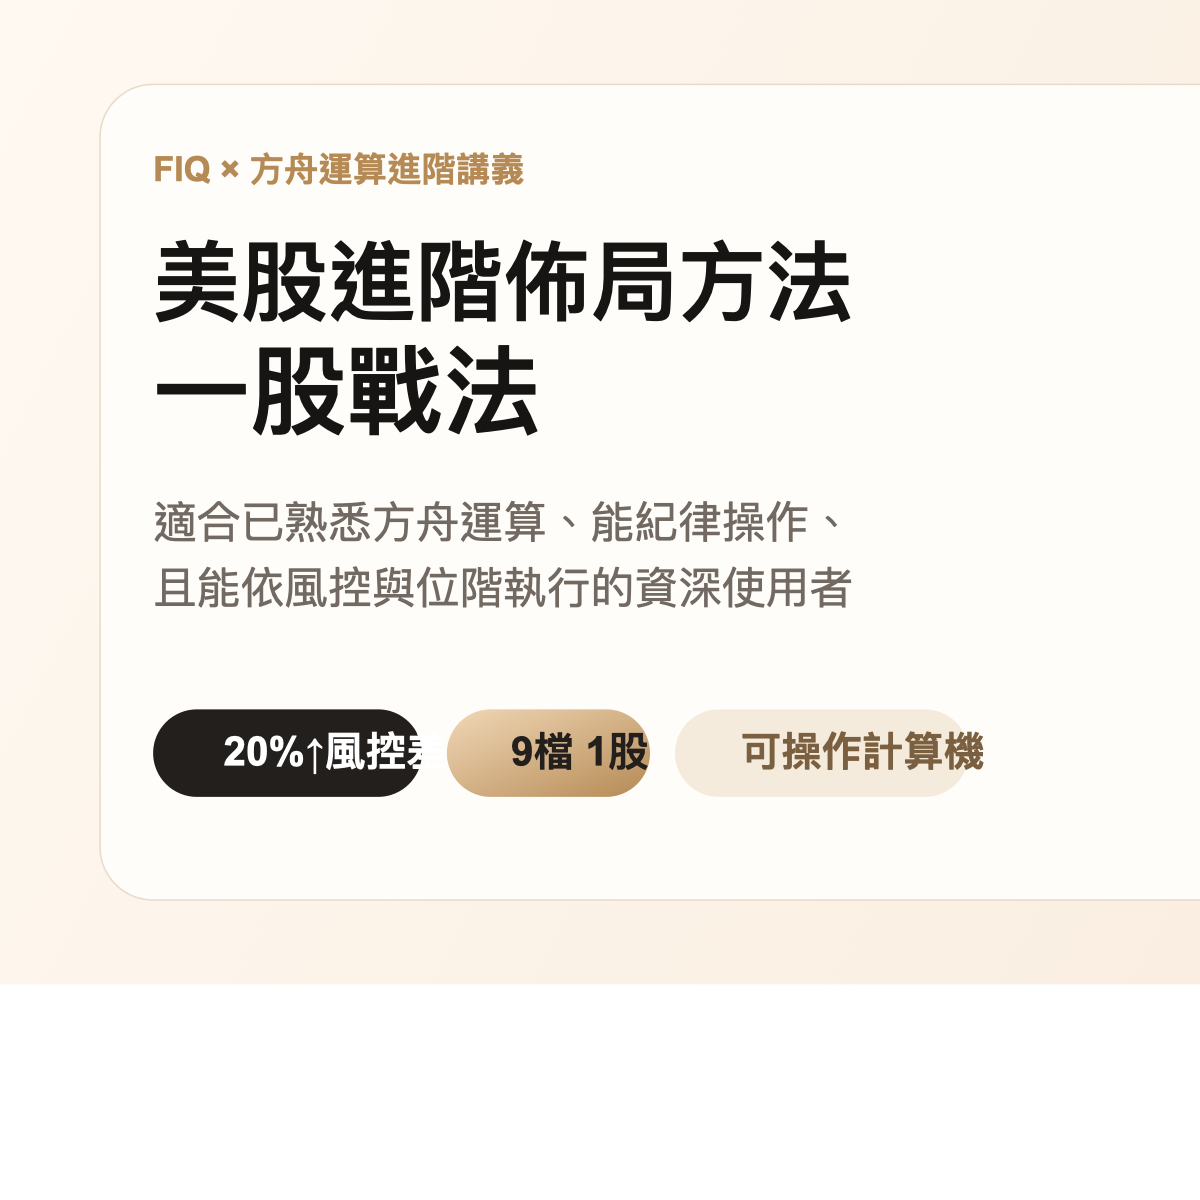
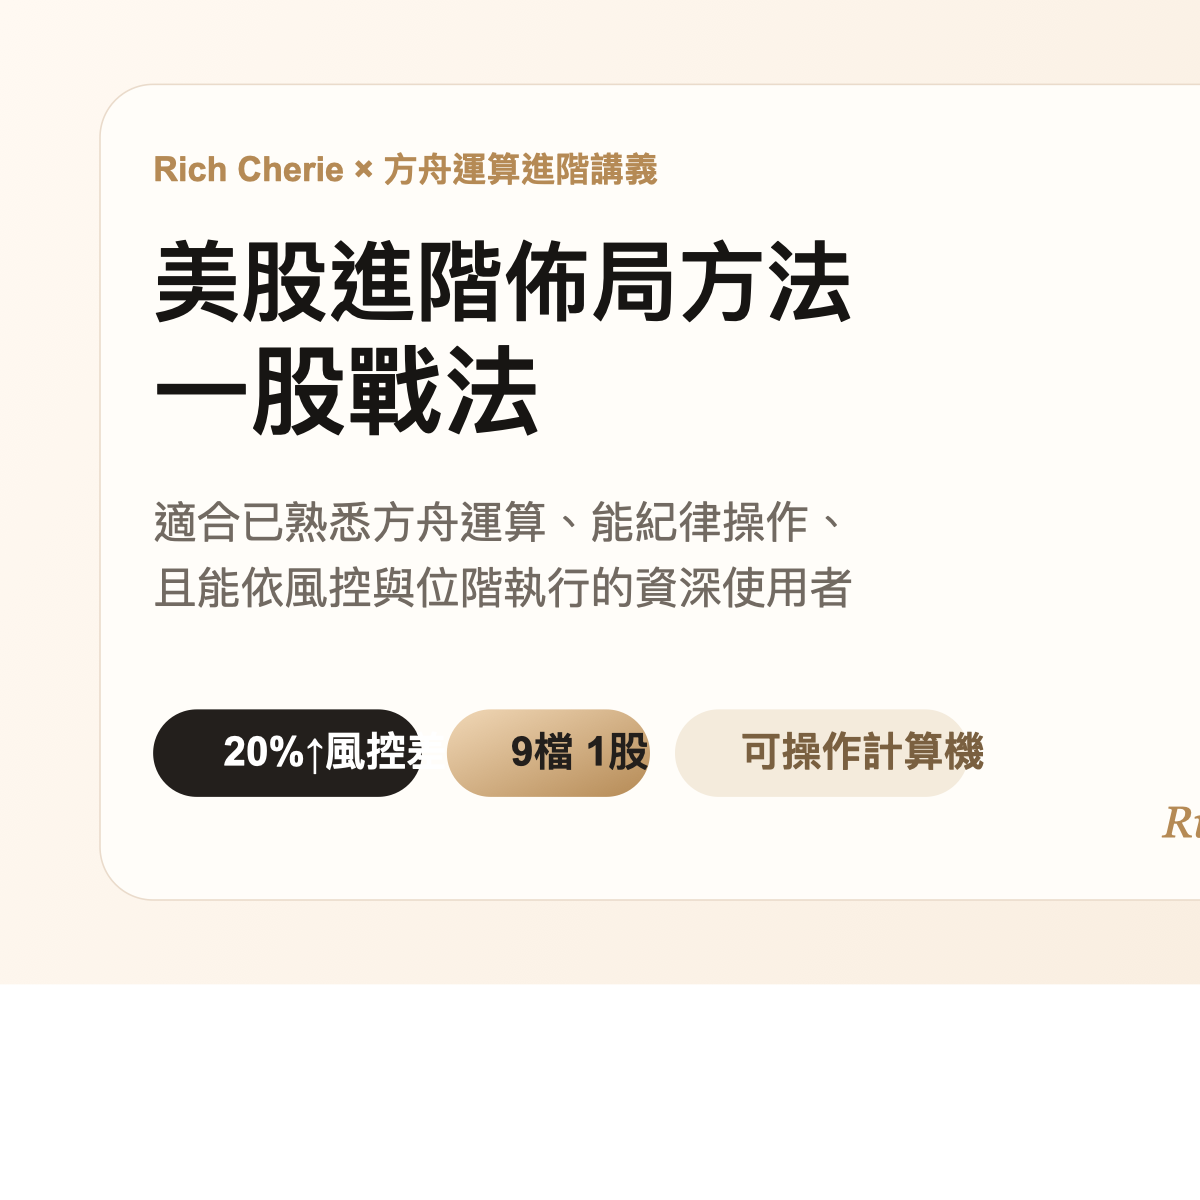
Replace FIQ label with Rich Cherie in page content

Changed region(s): [[0.1233, 0.1233, 0.555, 0.1542], [0.9558, 0.6783, 1.0, 0.7092]]

diff --git a/index.html b/index.html
@@ -3,9 +3,9 @@
 <head>
   <meta charset="UTF-8" />
   <meta name="viewport" content="width=device-width, initial-scale=1.0" />
-  <title>FIQ｜方舟運算美股進階佈局，一股戰法講義</title>
+  <title>Rich Cherie｜方舟運算美股進階佈局，一股戰法講義</title>
   <meta name="description" content="方舟運算擺渡人台中七期地主健身哥編寫的一股戰法講義，整理成可閱讀、可操作的公開網頁，含風控計算機。" />
-  <meta property="og:title" content="FIQ｜方舟運算美股進階佈局，一股戰法講義" />
+  <meta property="og:title" content="Rich Cherie｜方舟運算美股進階佈局，一股戰法講義" />
   <meta property="og:description" content="美股進階佈局方法，一股戰法，含先決條件、佈局 SOP、調節法與計算機。" />
   <meta property="og:type" content="website" />
   <meta property="og:image" content="./cover.png" />
@@ -110,7 +110,7 @@
           Instagram｜cherie.estilista
         </a>
       </div>
-      <span class="pill">✨ FIQ × 方舟運算進階講義</span>
+      <span class="pill">✨ Rich Cherie × 方舟運算進階講義</span>
       <h1>方舟運算／美股菁英班<br>「一股戰法」</h1>
       <p class="lead">📘 本頁將一股戰法拆解成先決條件、佈局 SOP、調節方法、情境判讀與可直接操作的計算機，讓資深使用者可以快速查閱與執行。</p>
       <div class="stats">

diff --git a/README.md b/README.md
@@ -1,1 +1,1 @@
-# FIQ One Share Strategy
+# Rich Cherie One Share Strategy
